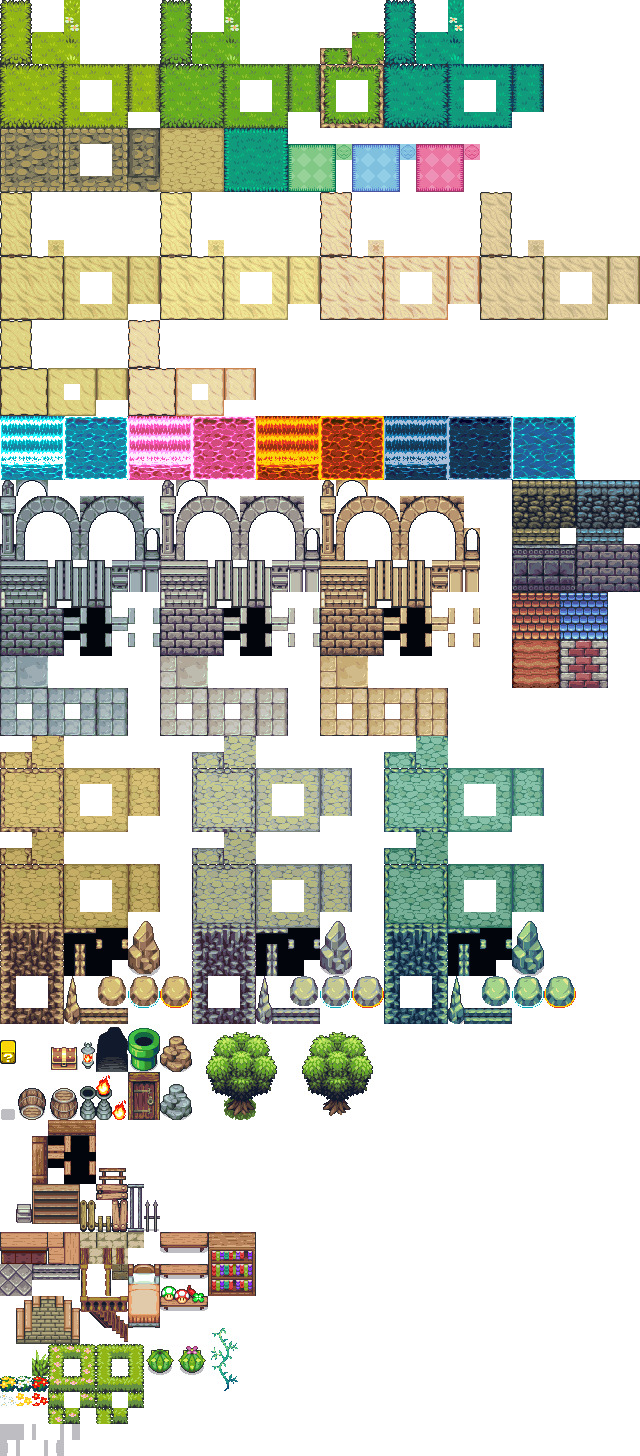
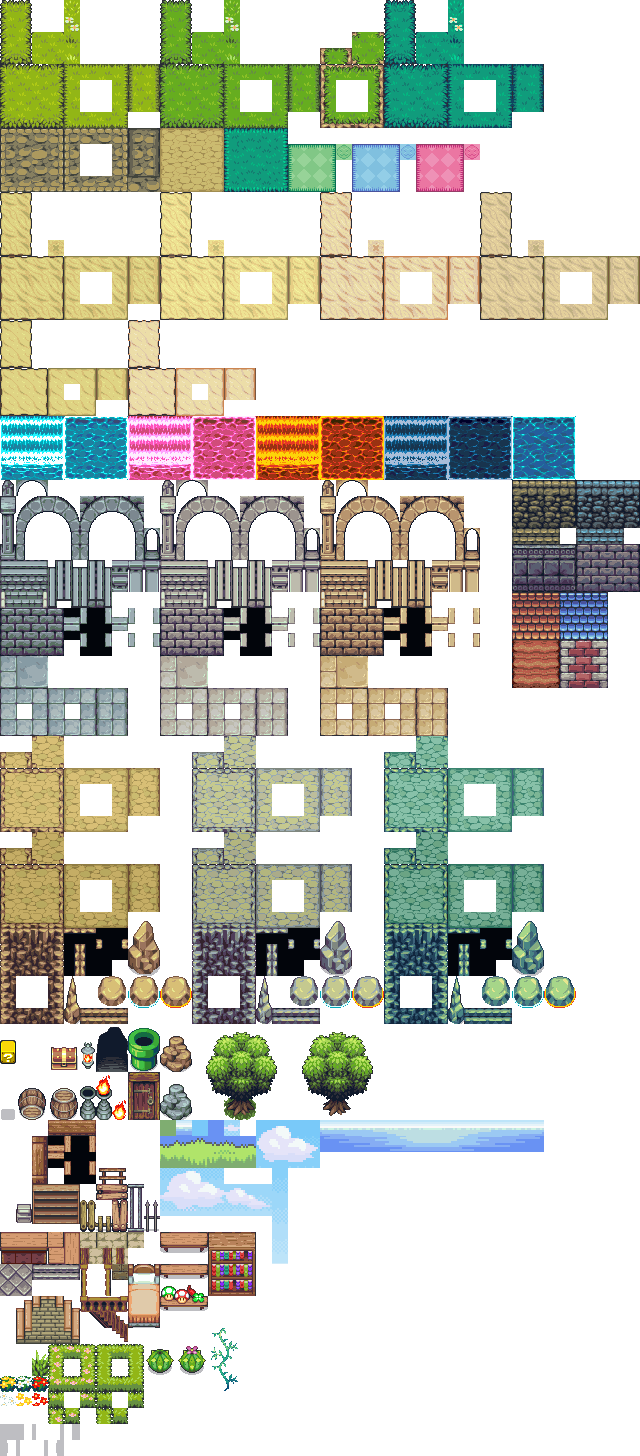
Добавил плитковый пейзаж

Changed region(s): [[0.25, 0.7418, 0.875, 0.8654]]

diff --git a/Level.cpp b/Level.cpp
@@ -86,12 +86,6 @@ void Level::_load_terrain(const vector<LAYER>& lays, const ResAnim *p_res_anim)
         }
     }
 
-    /*Vector2 pos(0.f, 0.f);
-    shared_ptr<Point> res_coords(new Point(0, 0));
-    spCollidedUnit block = new CollidedUnit(pos, p_res_anim, res_coords);
-    block->setSize(block_size);
-    //block->setPriority(lay.options.z_order);
-    addChild(block);*/
 }
 
 
@@ -131,14 +125,14 @@ void Level::_load_background(LAYER& lay, const ResAnim *p_res_anim)
 
 GameError Level::load_stage(const string fname)
 {
-    background_image = new Sprite;
-    background_image->setResAnim(res::resources.getResAnim("abckgroun"));
-    addChild(background_image);
-
     ObjectLoader ol;
     ol.open(fname);
 
     const ResAnim *p_res_anim = res::resources.getResAnim("pixeland");
+
+    // Загрузим пейзаж
+    landscape = new Landscape(ol.landscape, p_res_anim);
+    addChild(landscape);
 
     // Загрузим фон
     for(LAYER &lay : ol.backgrounds)
@@ -235,7 +229,7 @@ void Level::doUpdate(const UpdateState& us)
 
 
     // Прокручиваем задний фон по медленнее
-    background_image->setX(
+    landscape->setX(
         -(getX() / 2.f)
     );
 }

diff --git a/Landscape.cpp b/Landscape.cpp
@@ -1,0 +1,49 @@
+/* 
+ * File:   Landscape.cpp
+ * Author: ns
+ * 
+ * Created on November 8, 2018, 9:39 PM
+ */
+
+#include "Landscape.h"
+
+Landscape::Landscape(const LAYER& lay, const ResAnim *p_res_anim)
+{
+    uint block_index_counter = 0;
+    Vector2 pos;
+    const Vector2 block_size(TILE_WIDTH, TILE_HEIGHT);
+
+    for(uint col=0; col<lay.options.height; col++)
+    {
+        for(uint row=0; row<lay.options.width; row++)
+        {
+
+            pos.x = row * TILE_WIDTH;
+
+            const uint block_id = lay.int_data[block_index_counter++];
+
+            if(block_id != 0)
+            {
+                const shared_ptr<Point> res_coords = lay.get_coords(block_id);
+
+                // Добавим блок
+                spSprite block = new Sprite;
+                block->setSize(block_size);
+                block->setPosition(pos);
+                block->setResAnim(p_res_anim, res_coords->x, res_coords->y);
+                addChild(block);
+            }
+
+        }
+        pos.y = col * TILE_HEIGHT;
+
+    }
+}
+
+Landscape::Landscape(const Landscape& orig)
+{
+}
+
+Landscape::~Landscape()
+{
+}

diff --git a/Landscape.h b/Landscape.h
@@ -1,0 +1,30 @@
+/* 
+ * File:   Landscape.h
+ * Author: ns
+ *
+ * Created on November 8, 2018, 9:38 PM
+ */
+
+#ifndef LANDSCAPE_H
+#define LANDSCAPE_H
+
+#include <oxygine-framework.h>
+#include "flags.h"
+#include "ObjectLoader.h"
+
+using namespace oxygine;
+
+
+DECLARE_SMART(Landscape, spLandscape);
+
+
+class Landscape : public Sprite
+{
+    INHERITED(Sprite);
+public:
+    Landscape(const LAYER&, const ResAnim*);
+    Landscape(const Landscape& orig);
+    virtual ~Landscape();
+};
+
+#endif /* LANDSCAPE_H */

diff --git a/ObjectLoader.cpp b/ObjectLoader.cpp
@@ -99,6 +99,9 @@ void ObjectLoader::open(const string fname)
             LAYER l;
             terrains.push_back(l);
             p_layer = &terrains.back();
+        }else if(layer_name == "landscape")
+        {
+            p_layer = &landscape;
         }
         else
             continue;
@@ -176,4 +179,3 @@ const struct TILESET *ObjectLoader::get_tileset_by_id(uint id) const
     }
     return nullptr;
 }
-

diff --git a/Level.h b/Level.h
@@ -13,6 +13,7 @@
 #include <oxygine-framework.h>
 #include "ObjectLoader.h"
 #include "InputEvent.h"
+#include "Landscape.h"
 #include "GameStage.h"
 
 
@@ -27,8 +28,8 @@ class Level : public GameStage, public InputEvent
 {
 private:
     INHERITED(GameStage);
-    
-    spSprite background_image;
+
+    spLandscape landscape;
 
     vector<Unit> units;
     spPlayer player;

diff --git a/CollidedUnit.cpp b/CollidedUnit.cpp
@@ -24,10 +24,10 @@ StaticUnit(pos)
     //setScale(2.f);
     //setAnchor(0.f, 0.f);
 
-#ifdef DBG
+/*#ifdef DBG
     spDebugRectSprite sprite = new DebugRectSprite(Color::Blue, Vector2(TILE_WIDTH, TILE_HEIGHT));
     addChild(sprite);
-#endif
+#endif*/
 }
 
 CollidedUnit::CollidedUnit(const CollidedUnit& orig):

diff --git a/Player.cpp b/Player.cpp
@@ -21,11 +21,11 @@ DynamicUnit(pos)
 {
     //setAnchor(0.f, 0.f);
 
-#ifdef DBG
+/*#ifdef DBG
     // тестовая кнопка
     spDebugRectSprite sprite = new DebugRectSprite(Color::Magenta, Vector2(25.f, 44.f));
     addChild(sprite);
-#endif
+#endif*/
 }
 
 Player::Player(const Player& orig):

diff --git a/ObjectLoader.h b/ObjectLoader.h
@@ -69,6 +69,7 @@ public:
 
     vector<LAYER> backgrounds;
     vector<LAYER> terrains;
+    LAYER landscape;
     vector<struct TILESET> tilesets;
 
     const struct TILESET *get_tileset_by_name(string name) const;
